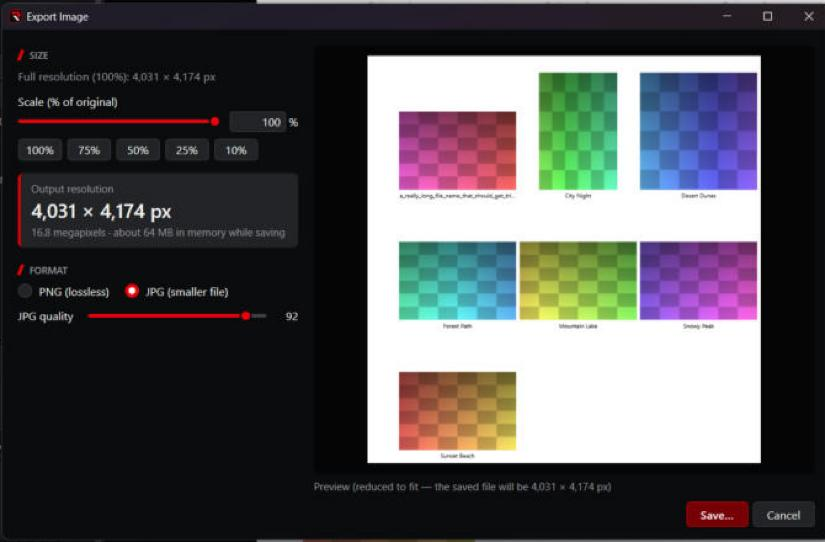
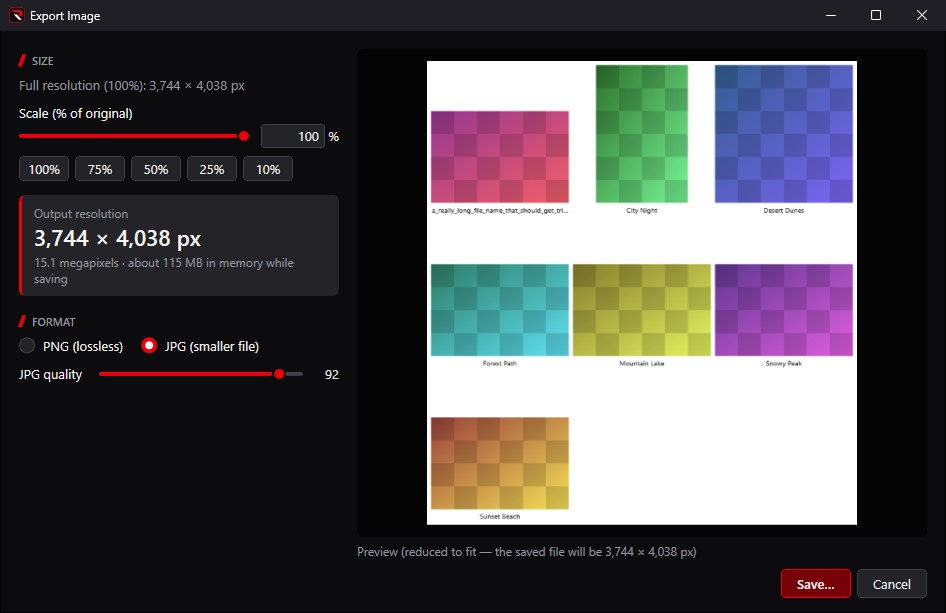
Image Grid: retake the export screenshot; wrap the memory note
The old 03-export-dark.jpg showed blank label bands that 1.1.0 no longer
saves. The new one is a capture of the real Export window (PrintWindow, one
window only) with the same demo set as 01-dark/02-light: seven checkerboard
gradients, auto-sized to padding 36 and text 60/75. The full-size output is
now 3,744 x 4,038 px with even padding (was 4,031 x 4,174).

The capture also showed the memory note ("about 115 MB in memory while
saving") running past the edge of its box since 1.1.0 doubled the estimate;
it now wraps.

diff --git a/apps/RulZ-Image-Grid/src/ExportWindow.cs b/apps/RulZ-Image-Grid/src/ExportWindow.cs
@@ -123,7 +123,7 @@ namespace RulZImageGrid
             var resStack = new StackPanel();
             resStack.Children.Add(Ui.Dim(new TextBlock { Text = "Output resolution", FontSize = 12 }));
             resText = new TextBlock { FontSize = 22, FontWeight = FontWeights.SemiBold, Margin = new Thickness(0, 2, 0, 2) };
-            detailText = Ui.Dim(new TextBlock { FontSize = 12 });
+            detailText = Ui.Dim(new TextBlock { FontSize = 12, TextWrapping = TextWrapping.Wrap }); // big sizes need two lines
             resStack.Children.Add(resText);
             resStack.Children.Add(detailText);
             resBox.Child = resStack;
